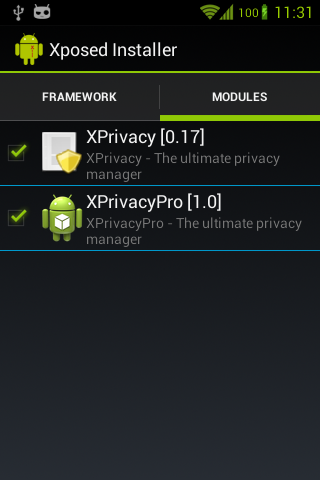
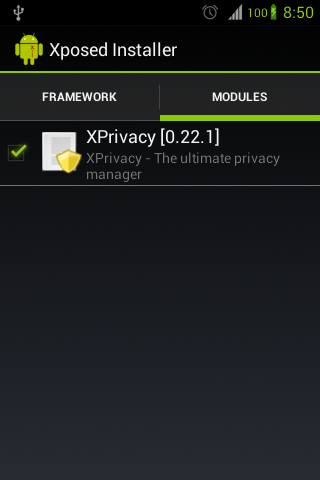
Update screenshots

diff --git a/README.md b/README.md
@@ -89,10 +89,9 @@ Donate a few dollars for the [pro version](http://www.faircode.eu/xprivacy/) or
 
 ![Xposed](https://raw.github.com/M66B/XPrivacy/master/screenshots/xposed.png)
 ![Applications](https://raw.github.com/M66B/XPrivacy/master/screenshots/applications.png)
-![Categories](https://raw.github.com/M66B/XPrivacy/master/screenshots/categories.png)
-![Category](https://raw.github.com/M66B/XPrivacy/master/screenshots/category.png)
 ![Application](https://raw.github.com/M66B/XPrivacy/master/screenshots/application.png)
 ![Help](https://raw.github.com/M66B/XPrivacy/master/screenshots/help.png)
+![Settings](https://raw.github.com/M66B/XPrivacy/master/screenshots/settings.png)
 
 Features
 --------
